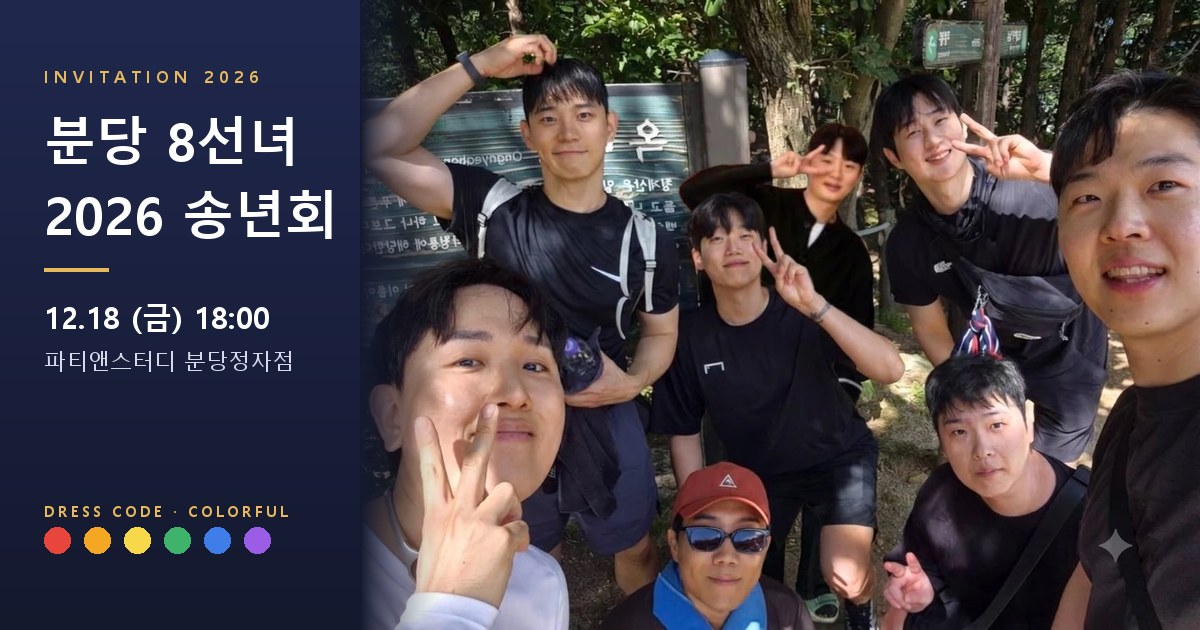
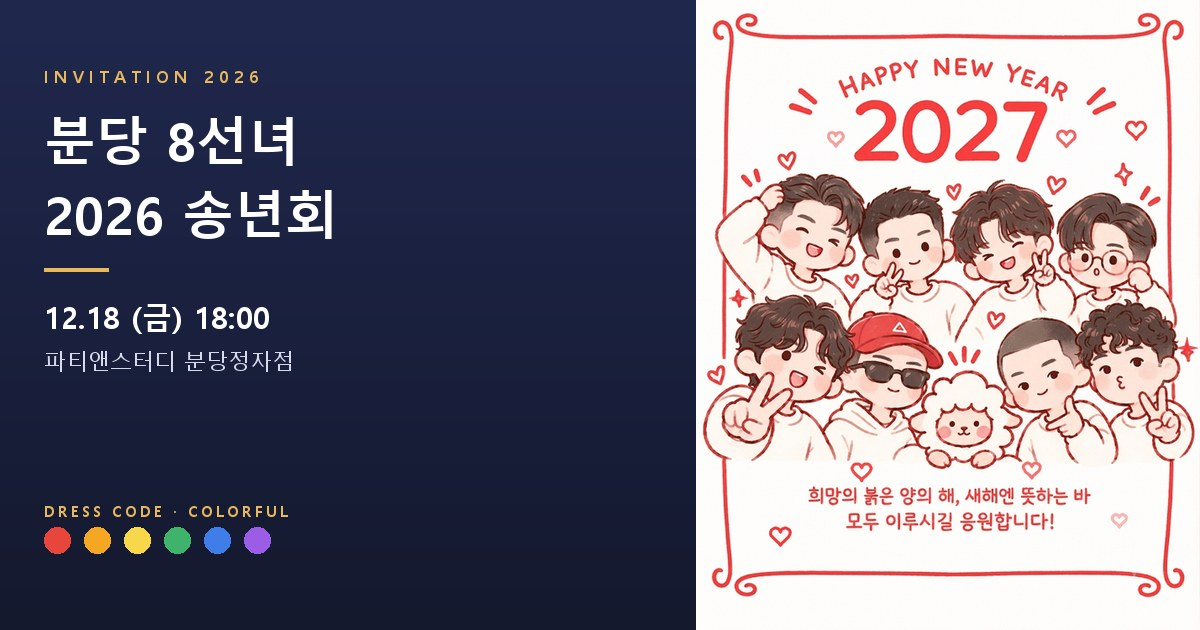
썸네일을 새해 일러스트로 교체, 일정 위에 움직이는 인사 이미지 추가
- og.jpg: 일러스트 첫 프레임 + 제목 패널 (1200x630)
- img/greeting.webp: 원본 GIF(4.9MB)를 애니메이션 WebP(1.9MB)로 변환
- css/js 캐시 버전 20261116j

diff --git a/index.html b/index.html
@@ -16,7 +16,7 @@
   <link rel="preconnect" href="https://fonts.googleapis.com">
   <link rel="preconnect" href="https://fonts.gstatic.com" crossorigin>
   <link href="https://fonts.googleapis.com/css2?family=Gowun+Batang:wght@400;700&family=Noto+Sans+KR:wght@400;500;700&display=swap" rel="stylesheet">
-  <link rel="stylesheet" href="css/style.css?v=20261116i">
+  <link rel="stylesheet" href="css/style.css?v=20261116j">
 </head>
 <body>
   <div class="snow" aria-hidden="true"></div>
@@ -40,6 +40,10 @@
   </nav>
 
   <main>
+    <figure class="greeting">
+      <img src="img/greeting.webp" width="600" height="750" alt="HAPPY NEW YEAR 2027 — 8선녀 단체 일러스트">
+    </figure>
+
     <section id="schedule" class="card">
       <h2>일정</h2>
       <dl class="info">
@@ -344,7 +348,7 @@
   <div class="toast" id="toast" role="status" aria-live="polite" hidden></div>
 
   <script src="https://cdn.jsdelivr.net/npm/@supabase/supabase-js@2.49.4/dist/umd/supabase.js"></script>
-  <script src="js/config.js?v=20261116i"></script>
-  <script src="js/app.js?v=20261116i"></script>
+  <script src="js/config.js?v=20261116j"></script>
+  <script src="js/app.js?v=20261116j"></script>
 </body>
 </html>

diff --git a/css/style.css b/css/style.css
@@ -350,3 +350,7 @@ main {
 .bg-wedit-head { display: flex; align-items: center; justify-content: space-between; gap: 6px; font-size: 12px; color: var(--gold); font-weight: 700; letter-spacing: .1em; }
 .bg-wedit-head .btn { min-height: 32px; padding: 0 10px; font-size: 13px; }
 .bg-wedit-head span:last-child { display: flex; gap: 4px; }
+
+/* 일정 위 인사 이미지 (움직이는 WebP) */
+.greeting { margin: 0; border-radius: var(--radius); overflow: hidden; box-shadow: var(--shadow); background: #fff; }
+.greeting img { display: block; width: 100%; height: auto; }
